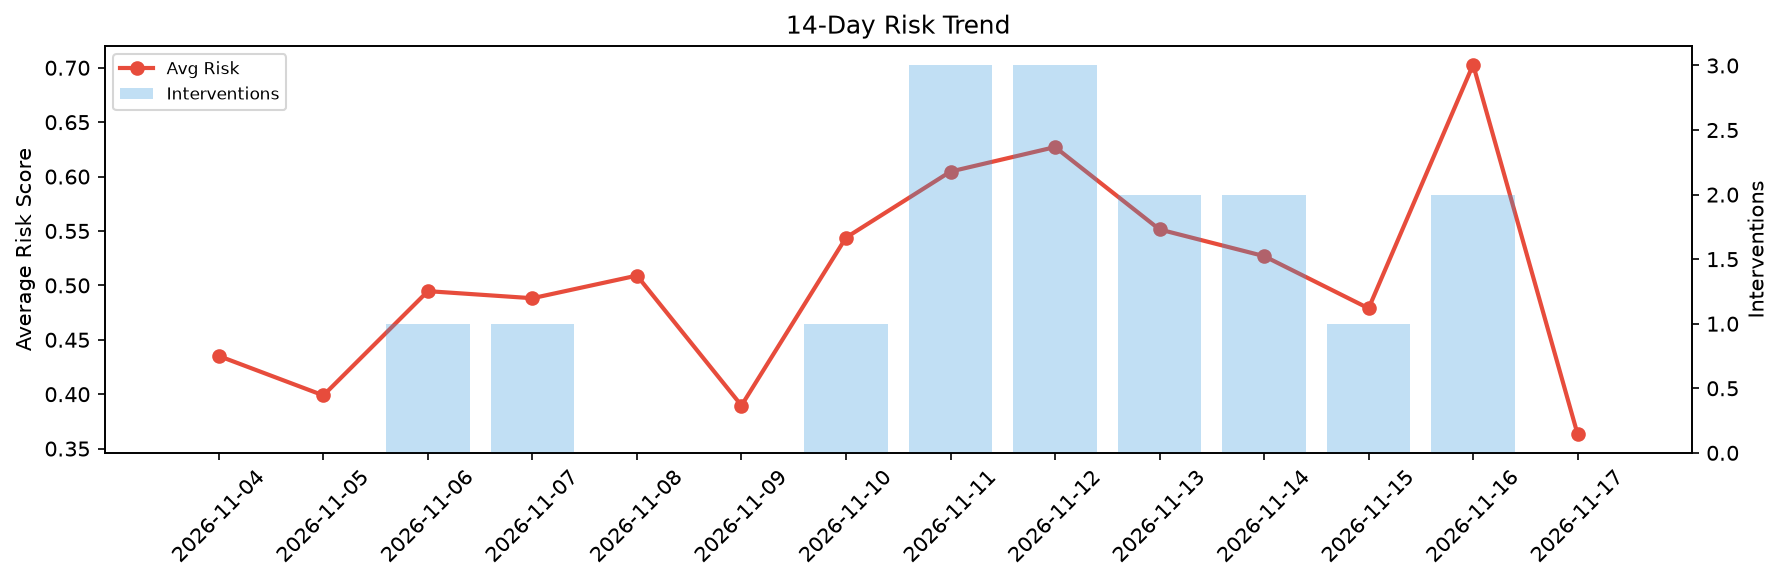
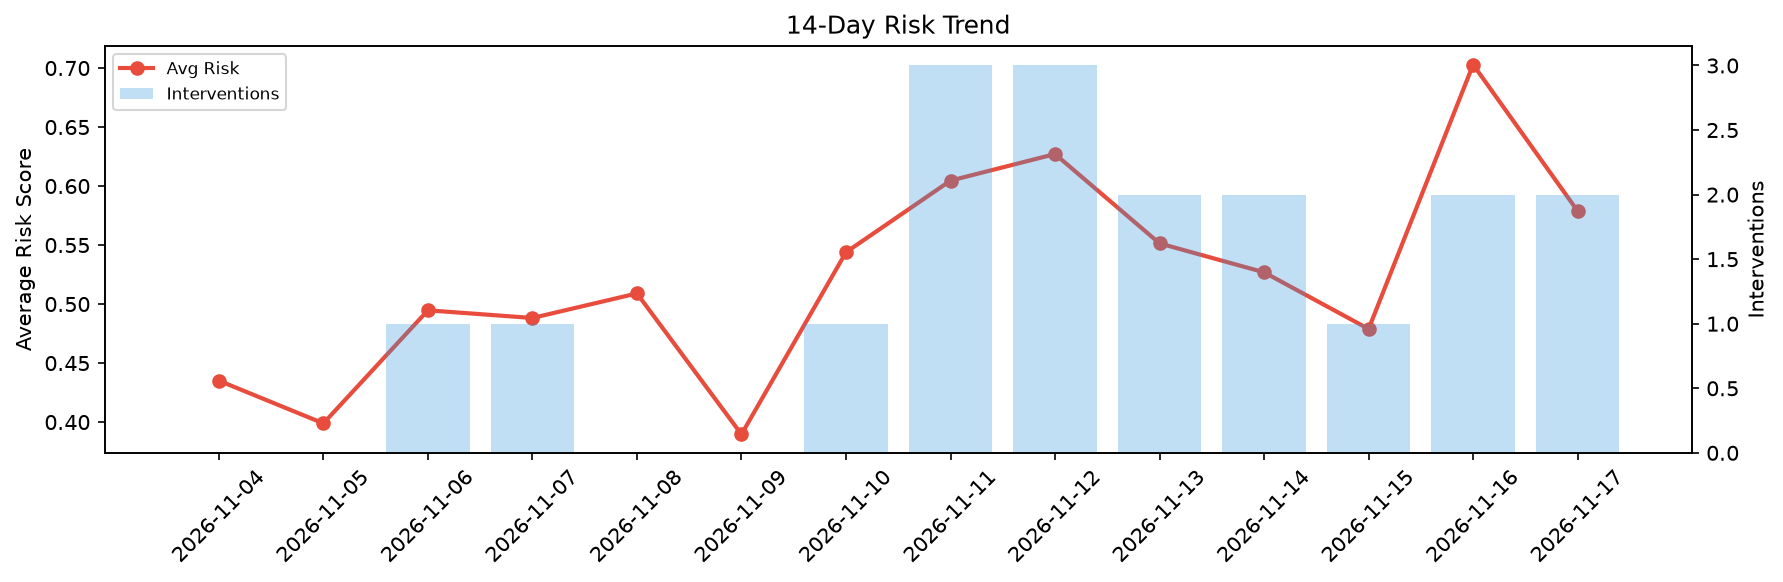
agent-improvement: daily cycle 2026-11-17T22:25

diff --git a/logs/2026-11-17.md b/logs/2026-11-17.md
@@ -1,6 +1,6 @@
 # Agent Improvement Report — 2026-11-17
 
-**Cycle ID:** `e80bb5f3` | **Avg Risk:** 0.3631 | **Interventions:** 0/4
+**Cycle ID:** `4c6a8907` | **Avg Risk:** 0.5788 | **Interventions:** 2/4
 
 ![Dashboard](2026-11-17_dashboard.png)
 
@@ -10,18 +10,18 @@
 
 | Domain | Risk Score | Decision | Alerts |
 |--------|-----------|----------|--------|
-| code_review | 0.1818 | monitor | none |
-| incident_response | 0.4893 | monitor | none |
-| data_pipeline | 0.3931 | monitor | none |
-| deployment | 0.3881 | monitor | none |
+| code_review | 0.7735 | intervene | duplication, coverage |
+| incident_response | 0.5219 | monitor | severity |
+| data_pipeline | 0.3648 | monitor | schema_drift |
+| deployment | 0.6549 | intervene | canary_error, latency_p99 |
 
 ## Delta vs Yesterday
 
 | Domain | Today | Yesterday | Change |
 |--------|-------|-----------|--------|
-| code_review | 0.1818 | 0.8628 | 📉 -78.9% |
-| incident_response | 0.4893 | 0.5608 | 📉 -12.7% |
-| data_pipeline | 0.3931 | 0.857 | 📉 -54.1% |
-| deployment | 0.3881 | 0.5309 | 📉 -26.9% |
+| code_review | 0.7735 | 0.8628 | 📉 -10.4% |
+| incident_response | 0.5219 | 0.5608 | 📉 -6.9% |
+| data_pipeline | 0.3648 | 0.857 | 📉 -57.4% |
+| deployment | 0.6549 | 0.5309 | 📈 23.4% |
 
-**Refinement:** `{'adjustment': 'tighten_thresholds', 'trend': 'degrading', 'window': 4}`
+**Refinement:** `{'adjustment': 'maintain', 'trend': 'improving', 'window': 4}`
